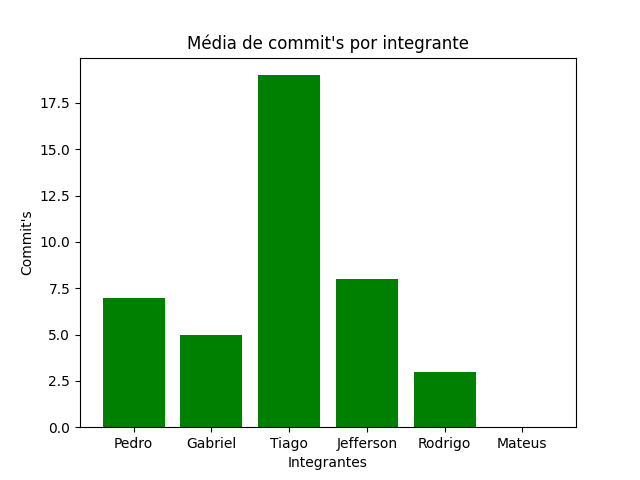
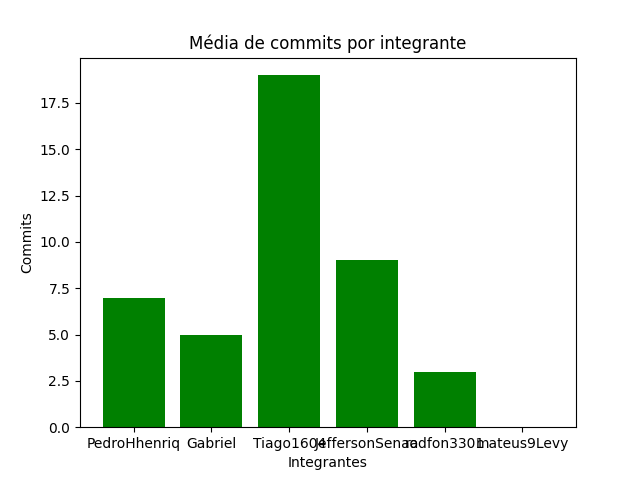
Implementação inicial das funcionalidades da biblioteca com histórico e gráfico dos commits.

diff --git a/Backend/main.py b/Backend/main.py
@@ -1,56 +1,45 @@
 """
-    Teste de interação da Biblioteca por meio da Biblioteca GitPython.
-    Essa interação é feita utilizando os comandos da biblioteca.
-    Primeiros testes da implementação/testando
+    Teste de criação do relatório markdown a partir do algoritmo.
+    Implementação inicial de teste dos commits e gráfico que analisa 
+    a quantidade de commits por integrante.
 """
 from git import Repo, Commit
 import matplotlib.pyplot as plt
 import subprocess
 
-#COMMITS_TO_PRINT = 20
 contador_commit = 0
 
 #Variavel que guarda o caminho do repositorio(Trocar para o caminho do seu PC)
 repo_path = "/home/jefferson/UnB/Mds/Projeto_Mds/2023.1-Biblioteca-Relatorios-Git" 
 
-#Variavel que chama o repositorio
 repo = Repo(repo_path) 
 
-#commits = list(repo.iter_commits())
-commits = list(repo.iter_commits('main'))#[:COMMITS_TO_PRINT]
+commits = list(repo.iter_commits('main'))
 
 def grafico():
-    name = list()
-    usuario = 0
-    usuario1 = 0
-    usuario2 = 0
-    usuario3 = 0
-    usuario4 = 0
-    usuario5 = 0
+# Dicionário para armazenar o número de commits por usuário
+    commits_por_usuario = {
+        'PedroHhenriq': 0,
+        'Gabriel': 0,
+        'Tiago1604': 0,
+        'JeffersonSenaa': 0,
+        'rodfon3301': 0,
+        'mateus9Levy': 0
+    }
+
+    # Contador para o número de commits por integrante
     for commit in commits:
         name = commit.author.name
-        if name == 'PedroHhenriq':
-            usuario += 1
-        elif name == 'Gabriel':
-            usuario1 += 1
-        elif name == 'Tiago1604':
-            usuario2 += 1
-        elif name == 'JeffersonSenaa':
-            usuario3 += 1
-        elif name == 'rodfon3301':
-            usuario4 += 1
-        elif name == 'mateus9Levy':
-            usuario5 += 1
+        if name in commits_por_usuario:
+            commits_por_usuario[name] += 1
 
-    y = [usuario, usuario1, usuario2, usuario3, usuario4, usuario5]
-    x = ['Pedro', 'Gabriel', 'Tiago', 'Jefferson', 'Rodrigo', 'Mateus']
+    usuarios = list(commits_por_usuario.keys())
+    num_commits = list(commits_por_usuario.values())
 
-    plt.bar(x,y)
-    plt.title("Média de commit's por integrante")
+    plt.bar(usuarios, num_commits, color='green')
+    plt.title("Média de commits por integrante")
     plt.xlabel("Integrantes")
-    plt.ylabel("Commit's")
-    plt.bar(x,y, color='green')
-    #plt.show()
+    plt.ylabel("Commits")
     plt.savefig('Backend/grafico_commits.png')
 
     code_md = "![Gráfico de Commits](grafico_commits.png)" 

diff --git a/Backend/infos_commit.md b/Backend/infos_commit.md
@@ -2,6 +2,62 @@
 
 **Informação dos commits:**
 ----------------------------------------------------------------------------------
+- impressão do hash: 8a491ab1504b14a3e5e2f9856dad69a32088c146
+- Mensagem do Commit: Deletando arquivo de teste da implementação
+
+- Autor: JeffersonSenaa | e-mail: (jeffersonsena12144@gmail.com)
+- 2023-05-08 18:30:26-03:00
+- Número do Commit: 56
+
+----------------------------------------------------------------------------------
+- impressão do hash: a3a70b39fa9150453cc9bb4167d3e3260e6f95f7
+- Mensagem do Commit: Inserção do grafico no arquivo markdown.
+
+- Autor: JeffersonSenaa | e-mail: (jeffersonsena12144@gmail.com)
+- 2023-05-08 14:01:31-03:00
+- Número do Commit: 55
+
+----------------------------------------------------------------------------------
+- impressão do hash: b3e65943350a58647bb9895afee5f6add9985432
+- Mensagem do Commit: Implementação inicial do relatório com histórico dos commits e gráfico.
+
+- Autor: JeffersonSenaa | e-mail: (jeffersonsena12144@gmail.com)
+- 2023-05-08 13:38:43-03:00
+- Número do Commit: 54
+
+----------------------------------------------------------------------------------
+- impressão do hash: 6a1d712d6c5f12cf952cf704bff82723868489a5
+- Mensagem do Commit: Adicionando função para salvar grafico no relatorio markdown
+
+Utilizando o módulo nativo subprocess o grafico é adicionado ao arquivo markdown.
+- Autor: Jefferson Sena | e-mail: (73854228+JeffersonSenaa@users.noreply.github.com)
+- 2023-05-08 13:16:37-03:00
+- Número do Commit: 52
+
+----------------------------------------------------------------------------------
+- impressão do hash: f3110aea8a2605b1a4c4d1af072c4b9629fbd7ca
+- Mensagem do Commit: Adicionando comando para salvar grafico no arquivo md.
+
+- Autor: JeffersonSenaa | e-mail: (jeffersonsena12144@gmail.com)
+- 2023-05-08 13:09:17-03:00
+- Número do Commit: 50
+
+----------------------------------------------------------------------------------
+- impressão do hash: 2f9a49e414af0e555cd2a5354dafd68eb7e30ed4
+- Mensagem do Commit: Create Escopo.md
+- Autor: Gabriel | e-mail: (105024303+gabrie1barbosa@users.noreply.github.com)
+- 2023-05-08 11:24:54-03:00
+- Número do Commit: 51
+
+----------------------------------------------------------------------------------
+- impressão do hash: d1a94d739eee514c8e845910b69b08a3f5a3b47d
+- Mensagem do Commit: Atualização da função commit
+
+- Autor: Tiago1604 | e-mail: (202028973@aluno.unb.br)
+- 2023-05-08 10:24:22-03:00
+- Número do Commit: 50
+
+----------------------------------------------------------------------------------
 - impressão do hash: 37f5cf78fd13088ce456225164be65b9a10cb2e9
 - Mensagem do Commit: Ajustando a formatação do Markdown
 
@@ -135,57 +191,5 @@
 - Autor: rodfon3301 | e-mail: (98030427+rodfon3301@users.noreply.github.com)
 - 2023-05-04 21:15:56-03:00
 - Número do Commit: 30
-
-----------------------------------------------------------------------------------
-- impressão do hash: 054d271cb7fea6e5060bbec578ec88f55b7d3593
-- Mensagem do Commit: Merge branch 'main' of github.com:fga-eps-mds/2023.1-Biblioteca-Relatorios-Git
-
-- Autor: JeffersonSenaa | e-mail: (jeffersonsena12144@gmail.com)
-- 2023-05-03 22:13:10-03:00
-- Número do Commit: 31
-
-----------------------------------------------------------------------------------
-- impressão do hash: 0727927d8ff782df66fa1fd3b60c39863a61dcda
-- Mensagem do Commit: Alteração no arquivo index.html
-
-- Autor: JeffersonSenaa | e-mail: (jeffersonsena12144@gmail.com)
-- 2023-05-03 22:08:39-03:00
-- Número do Commit: 27
-
-----------------------------------------------------------------------------------
-- impressão do hash: 2499dc72e20c74140eb3c55d94d040a7257ee1f3
-- Mensagem do Commit: Update main.py
-- Autor: Jefferson Sena | e-mail: (73854228+JeffersonSenaa@users.noreply.github.com)
-- 2023-05-03 22:01:59-03:00
-- Número do Commit: 29
-
-----------------------------------------------------------------------------------
-- impressão do hash: 9f3ff2530415c9a2c31f940fba7a3ee7363d1f07
-- Mensagem do Commit: Inicio da implementação da biblioteca e gitPython.
-- Autor: Tiago1604 | e-mail: (98188815+Tiago1604@users.noreply.github.com)
-- 2023-05-03 21:57:12-03:00
-- Número do Commit: 28
-
-----------------------------------------------------------------------------------
-- impressão do hash: 91efaa965a361bfa92ff7b25839ef9f9d2f2bacb
-- Mensagem do Commit: Rename Index.html to index.html
-- Autor: Tiago1604 | e-mail: (98188815+Tiago1604@users.noreply.github.com)
-- 2023-05-03 20:05:23-03:00
-- Número do Commit: 27
-
-----------------------------------------------------------------------------------
-- impressão do hash: ba9c638aa47558e5448bf5da23f462a026c32a68
-- Mensagem do Commit: Criação do Git Pages do projeto em HTML e CSS.
-
-- Autor: JeffersonSenaa | e-mail: (jeffersonsena12144@gmail.com)
-- 2023-05-03 19:58:50-03:00
-- Número do Commit: 26
-
-----------------------------------------------------------------------------------
-- impressão do hash: a79a4fdff3438bc8c2d4047c4453c5f0b67e2e6e
-- Mensagem do Commit: Edição do caminho do arquivo pull_requeste_template.md
-- Autor: Jefferson Sena | e-mail: (73854228+JeffersonSenaa@users.noreply.github.com)
-- 2023-05-02 19:35:51-03:00
-- Número do Commit: 25
 
 ![Gráfico de Commits](grafico_commits.png)
